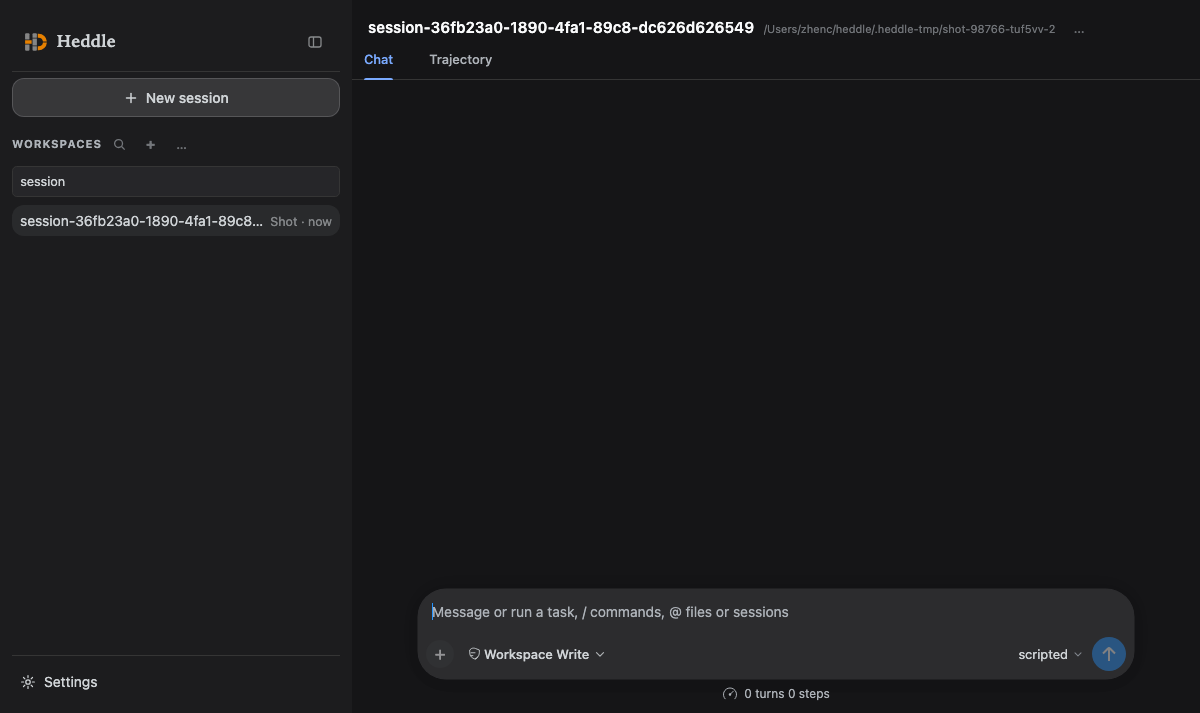
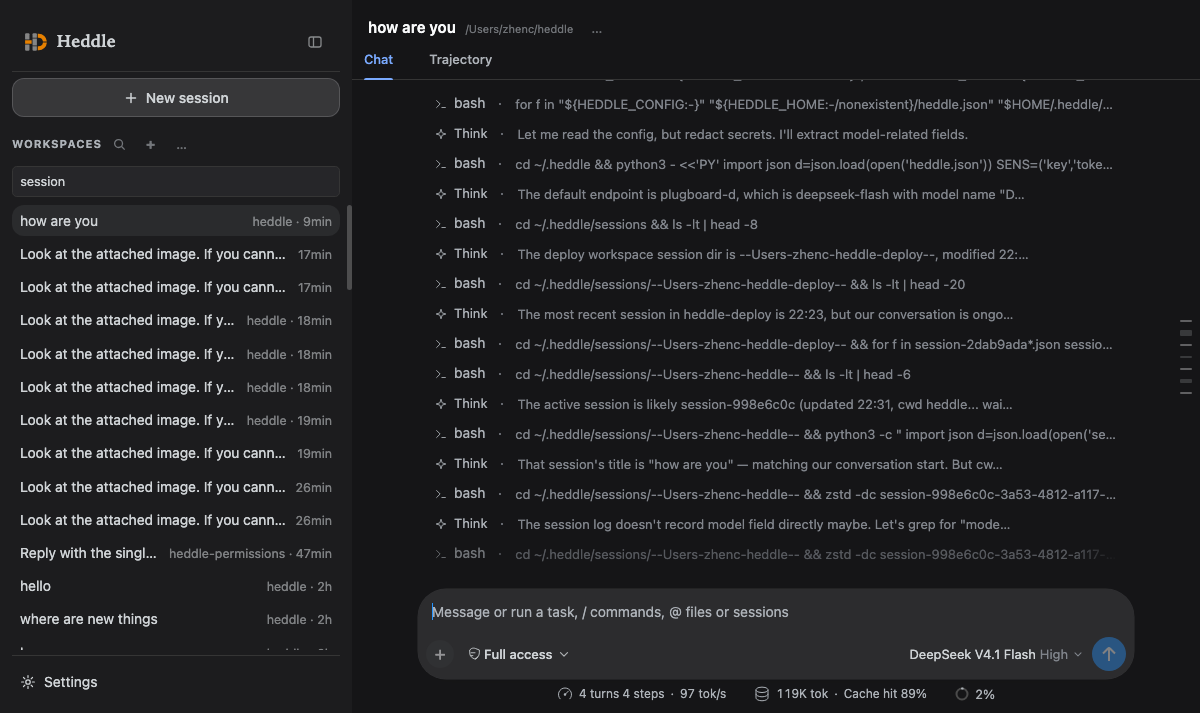
fix(web): a focused row draws its ring inside the inset
Cycle 3 of the tree-item inset loop.

Rows are focusable (`tabIndex = 0`), and the platform's default ring paints **outside** the focused box:
measured before this rule, a row at 12→340 focused from the keyboard matched `:focus-visible` and drew
`outline: auto 1px` at 11→341 — outside its own box and in the browser's blue. The one row state that must
not break the 12-pixel gutter was the only one painting into it.

The row now draws a solid 2px ring with `outline-offset: -2px` in the panel's 45% ink — the same focus
treatment the panel's other focusable controls use, with the inward offset the inset requires — so its outer
edge is the row's own box and it follows the row's 12px radius.

Measured with the same keyboard-mode probe: without the rule `auto 1px`, offset 0, rgb(153,200,255), ring
11→341; with it `solid 2px`, offset −2px, oklab 45% ink, ring 12→340. The same pass measured the states the
inset had to survive: a short list (no overflow) still reserves the 5px gutter with the row at 12→340, the
rail collapses and restores with the row back at 12→340, and hover/selection already painted on that box.

Part 11 judges the ring's style, width, inward offset, ink and its containment in the row box; the unit
contract pins the rule. npm test 429/429, part 11 green, linter clean.

diff --git a/test/page-contract.test.ts b/test/page-contract.test.ts
@@ -214,6 +214,7 @@ test('the workspaces region spans the panel and carries the reference\'s scrollb
   assert.match(page, /#tree \{ padding-inline: 12px calc\(12px - 5px\); \}/, 'the rows are inset inside the pane, which keeps the scrollbar at the panel edge')
   assert.match(page, /#search-results \{ padding-inline: 12px calc\(12px - 5px\); \}/, 'and the search results take the same inset, so a search does not shift the list edges')
   assert.match(page, /#search-results \.hit \{[^}]*padding: \.3rem \.5rem;[^}]*border-radius: 12px;/s, 'with each hit using the row padding and rounding')
+  assert.match(page, /#tree \.row:focus-visible \{[^}]*outline: 2px solid color-mix\(in oklab, var\(--text\) 45%, transparent\);[^}]*outline-offset: -2px;/s, 'and a focused row draws its ring inside its own box, in the panel ink')
   assert.match(page, /#tree ul\[role='group'\] \{ padding-left: 0; \}/, 'while a group no longer narrows the rows below it')
   assert.match(page, /function nodeRow\(node, depth = 0\)/, 'nodeRow carries the depth')
   assert.match(page, /group.append\(nodeRow\(child, depth \+ 1\)\)/, 'and passes one more to each child')

diff --git a/src/server/page.html b/src/server/page.html
@@ -1258,6 +1258,18 @@
   }
   #tree .row:hover { background: color-mix(in oklab, currentColor 8%, transparent); }
   /**
+   * **The keyboard's ring stays inside the row**, drawn in the panel's own ink rather than the platform's blue.
+   *
+   * Measured before this rule: a row focused from the keyboard matched `:focus-visible` and the UA's `outline: auto 1px`
+   * painted outside the row's box — 11→341 for a row at 12→340 — so the one state that must not break the row's inset
+   * was the only one painting into the 12-pixel gutter, in a colour unrelated to the panel. A negative offset puts the
+   * 2px ring inside the row's own 12px radius; the mix is the same 45% ink the other focusable controls use.
+   */
+  #tree .row:focus-visible {
+    outline: 2px solid color-mix(in oklab, var(--text) 45%, transparent);
+    outline-offset: -2px;
+  }
+  /**
    * The selected row, and it has to be visible *while* the pointer is elsewhere: a tint alone is what
    * hover already draws, so the selection carries a left accent bar and a bolder name as well.
    */

diff --git a/SIDEBAR_PANEL.md b/SIDEBAR_PANEL.md
@@ -480,6 +480,62 @@ selected state under search (a hit is a button, not a treeitem) was not measured
 **invariants:** the pane still spans the panel with its 5px scrollbar at the edge; tree rows and search hits share one
 inset (asserted); their content column is the search field's text column; the 14px depth indent is unchanged.
 
+## Cycle 3: the keyboard's ring, and the states the inset must survive
+
+**measured:** the reference's own focus treatment could not be read — its tree items do not become `document.activeElement`
+through `focus()` (measured: `focused: false`), so there is no reference ring to copy; its hover, however, is **instant**
+(`transition: all 0s`), which heddle already matches. Heddle's rows **are** focusable (`tabIndex = 0`), and the platform's
+default ring is what a keyboard user saw.
+
+**measured, ours (pre-fix):** a row at **12→340**, focused from the keyboard (`:focus-visible` true), drew the UA's
+`outline: auto 1px`, `outline-offset: 0`, colour `rgb(153, 200, 255)` — painting at **11→341**, outside the row's box, in
+the browser's blue. The one row state that must not break the 12-pixel gutter was the only one painting into it.
+
+**brainstorm:**
+
+1. **A solid 2px ring offset inward (`-2px`), in the panel's 45% ink.** *Chosen:* the ring's outer edge becomes the row's
+   own box, it follows the 12px radius, and it is the same focus treatment the other focusable controls in the panel use
+   (`details.turn > summary`, `.column-grip`, `#minimap-hit` — all 45% ink) with the one change the inset requires.
+2. **Keep the platform ring and accept the overhang.** *Discarded:* it paints into the gutter and uses a colour from
+   outside the panel's palette; the rule this cycle exists for is that every row state stops at the inset.
+3. **`outline: none` and change the background instead.** *Discarded:* then focus wears the same 8% tint as hover and
+   selection, three states on one signal.
+4. **A box-shadow ring.** *Discarded:* equivalent geometry, but it cannot follow the border-radius as the outline does.
+
+**understand:** the inset is a property of the row's box; the UA ring is drawn *outside* that box, so any row state that
+paints outside it breaks the design. The fix belongs to the row's focus rule, not to the list's padding.
+
+**step back:** one rule, one state, no geometry change; the ring's row box stays 12→340.
+
+**changed:** `src/server/page.html` — `#tree .row:focus-visible`.
+
+**evidence,** same probe, keyboard modality first:
+
+| Run | box | outline | ring |
+|---|---|---|---|
+| without the rule | 12→340 | `auto 1px`, offset 0, `rgb(153,200,255)` | 11→341 |
+| with the rule | 12→340 | `solid 2px`, offset −2px, `oklab(0.98 … / 0.45)` | 12→340 (inside the box) |
+
+The states the inset had to survive were measured in the same pass: a **short list** (1 row, no overflow) still reserves
+the 5px gutter and the row is 12→340; the **rail** collapses (`collapsed`) and restores (`expanded`) with the row back at
+12→340; **hover**, **selected with the pointer away** and **search hits** all paint on the 12→340 box (cycles 1–2);
+the row's only motion is instant, as the reference's is.
+
+Screenshot: [`_context_/sidebar-panel/focused-row.png`](_context_/sidebar-panel/focused-row.png) — a focused workspace
+row whose ring sits inside the row's own 12→340 box.
+
+**reds:** none in part 11; the suite is green (part 7 45/45, npm test 428/428, linter 0 errors).
+
+**coverage:** the four row states (rest, hover, selected, keyboard focus), the short list, the rail and two viewport
+widths are read. Not measured: the reference's keyboard ring (it exposes none to `focus()`), and a row focused *while the
+list scrolls* — neither changes the claim.
+
+**invariants:** the pane spans the panel with its 5px scrollbar at the edge; row boxes are 12→340 in every state; the
+focus ring stays inside; the content column is the search field's text column; the depth indent is 14px.
+
+**lessons:** a state that paints **outside** the box is the one that can break an inset that every other state respects —
+and the platform's default focus ring is such a state. Every state of an object needs measuring, not just the pointer's.
+
 **lessons:** a second list inside one scroller is not a second design; it is the same row shape in another state. And a
 comparison that does not pin the served build can spend a cycle measuring a page nobody rebuilt.
 

diff --git a/_context_/sidebar-panel/INDEX.md b/_context_/sidebar-panel/INDEX.md
@@ -58,6 +58,12 @@ column. The scrollable pane keeps the panel's full width; only the items are nar
 results. The page also states its own build in `meta[name=heddle-page]` (the file's sha256), which is how a stale
 served build is told apart from a missing feature.
 
+## Row states
+
+`focused-row.png` — a workspace row focused from the keyboard at 1200×800: the 2px ring is drawn inside the row's own
+12→340 box in the panel's ink, so the focus state respects the same inset as hover and selection. The cycle also
+measured the short list (gutter reserved, no bar) and the rail's collapse/expand.
+
 ## Read next
 
 [`SIDEBAR_PANEL.md`](../../SIDEBAR_PANEL.md) for the measured structure, the approaches that were discarded, and each
